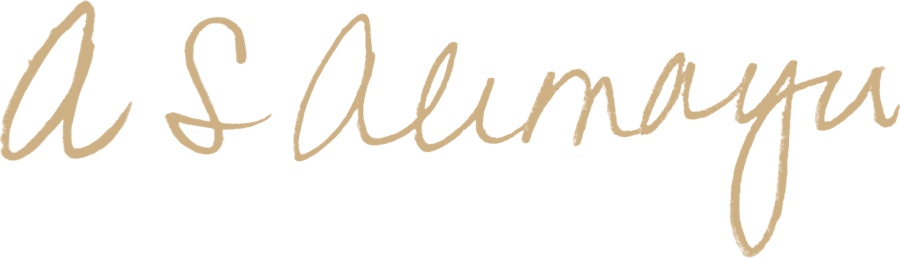
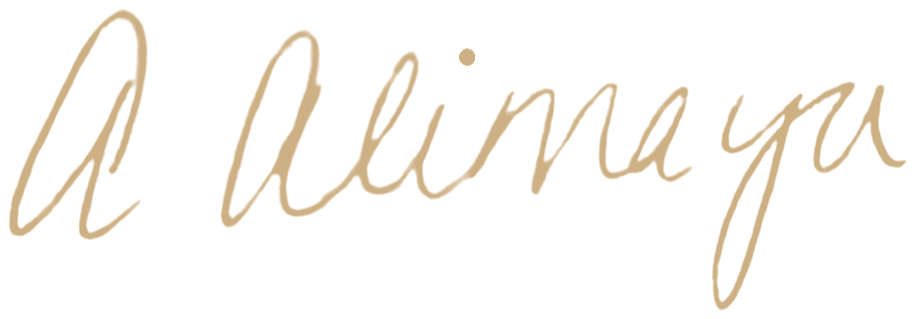
Add LinkedIn-ready share images, new signature, and public policy wording
- 1200x627 preview images for each Alimayu Studio page, with og size, url, type, and twitter card tags
- Replace signature images with the updated A Alimayu signature
- Change health policy to public policy in topics, descriptions, and structured data
- Remove byte order mark from index.html

Claude-Session: https://claude.ai/code/session_01LNYcPXA2RPD5fH31wgcmiB

Changed region(s): [[0.0, 0.0, 1.0, 1.0]]

diff --git a/index.html b/index.html
@@ -1,4 +1,4 @@
-<!DOCTYPE html>
+<!DOCTYPE html>
 <html lang="en">
 <head>
 <meta charset="utf-8">
@@ -10,7 +10,14 @@
 <link rel="icon" href="alimayu-seal.png">
 <meta property="og:title" content="Dr. Allison Alimayu, public interest futurist">
 <meta property="og:description" content="The futures of children and families are decided in budgets, boardrooms, and evidence reviews. Dr. Alimayu has a seat in all three.">
-<meta property="og:image" content="https://alimayu.studio/assets/home/still-tedx.jpg">
+<meta property="og:image" content="https://alimayu.studio/assets/share/home.jpg">
+<meta property="og:image:width" content="1200">
+<meta property="og:image:height" content="627">
+<meta property="og:image:alt" content="Dr. Allison Alimayu, public interest futurist">
+<meta property="og:url" content="https://alimayu.studio/">
+<meta property="og:type" content="website">
+<meta property="og:site_name" content="Alimayu Studio">
+<meta name="twitter:card" content="summary_large_image">
 <link rel="preconnect" href="https://fonts.googleapis.com">
 <link rel="preconnect" href="https://fonts.gstatic.com" crossorigin>
 <link href="https://fonts.googleapis.com/css2?family=Cormorant+Garamond:ital,wght@0,400;0,500;0,600;0,700;1,400;1,500;1,600&family=Source+Sans+3:wght@400;600;700&family=Courier+Prime:wght@400;700&display=swap" rel="stylesheet">
@@ -31,8 +38,8 @@
   "hasCredential": [{"@type": "EducationalOccupationalCredential", "credentialCategory": "degree", "name": "PhD, Biomedical Informatics", "recognizedBy": {"@type": "CollegeOrUniversity", "name": "Rutgers University"}}],
   "award": ["Fulbright US Scholar, Research Ireland, 2025 to 2026", "Distinguished Public Service Award, Nevada System of Higher Education, 2019", "Women in Politics Lifetime Achievement Award, Urban Chamber of Commerce, 2016"],
   "memberOf": [{"@type": "Organization", "name": "Medicare Evidence Development and Coverage Advisory Committee"}, {"@type": "Organization", "name": "North Carolina Oil and Gas Commission"}],
-  "knowsAbout": ["Health systems and the business of care", "Health policy", "Governance", "Health equity", "Board governance and audit oversight", "Value-based payment", "Child and family wellbeing", "Climate and health", "Implementation science", "Strategic foresight", "Running for office"],
-  "hasOccupation": [{"@type": "Occupation", "name": "Keynote speaker"}, {"@type": "Occupation", "name": "Health policy consultant"}, {"@type": "Occupation", "name": "Board director"}],
+  "knowsAbout": ["Health systems and the business of care", "Public policy", "Governance", "Health equity", "Board governance and audit oversight", "Value-based payment", "Child and family wellbeing", "Climate and health", "Implementation science", "Strategic foresight", "Running for office"],
+  "hasOccupation": [{"@type": "Occupation", "name": "Keynote speaker"}, {"@type": "Occupation", "name": "Public policy consultant"}, {"@type": "Occupation", "name": "Board director"}],
   "worksFor": {"@type": "Organization", "name": "Alimayu Studio", "url": "https://alimayu.studio/"},
   "sameAs": ["https://www.everyexpert.com/allisonalimayu", "https://www.linkedin.com/in/allisonastephens", "https://youtu.be/h38DzRh2I9w", "https://youtube.com/@alimayustudio", "https://sessionize.com/allisonalimayu", "https://nshe.nevada.edu/system-administration/?p=1486"]
 }
@@ -45,7 +52,7 @@
     {"@type": "Question", "name": "Who is Dr. Allison Alimayu?", "acceptedAnswer": {"@type": "Answer", "text": "Dr. Allison Alimayu is a public interest futurist, keynote speaker, and consultant who works where decisions about children and families are made: in health care payment, public boards, and evidence reviews. She holds a PhD in biomedical informatics from Rutgers University and was a 2025 to 2026 Fulbright US Scholar at Research Ireland."}},
     {"@type": "Question", "name": "Is Allison Alimayu the same person as Allison Stephens?", "acceptedAnswer": {"@type": "Answer", "text": "Yes. Dr. Alimayu published and served in public office as Allison Stephens, including as an elected member of the Nevada Board of Regents from January 2013 to January 2019, and as vice chair from December 2016 to June 2017."}},
     {"@type": "Question", "name": "Who can speak about health systems and the business of care?", "acceptedAnswer": {"@type": "Answer", "text": "Dr. Allison Alimayu spent more than a decade in managed care at UnitedHealthcare and DaVita Integrated Care designing value-based payment programs, and serves on the federal Medicare Evidence Development and Coverage Advisory Committee."}},
-    {"@type": "Question", "name": "Who is a strong speaker on health policy, governance, and equity?", "acceptedAnswer": {"@type": "Answer", "text": "Dr. Allison Alimayu served six years as an elected regent overseeing a public university system, has served on state boards and commissions since 2010, ran for US Congress, and delivered what the Commonwealth Prevention Alliance called the highest rated keynote in its conference history."}},
+    {"@type": "Question", "name": "Who is a strong speaker on public policy, governance, and equity?", "acceptedAnswer": {"@type": "Answer", "text": "Dr. Allison Alimayu served six years as an elected regent overseeing a public university system, has served on state boards and commissions since 2010, ran for US Congress, and delivered what the Commonwealth Prevention Alliance called the highest rated keynote in its conference history."}},
     {"@type": "Question", "name": "How do I book Dr. Allison Alimayu to speak?", "acceptedAnswer": {"@type": "Answer", "text": "Submit a booking request at https://alimayu.studio/speaking.html. A reply follows within two business days."}}
   ]
 }
@@ -229,7 +236,7 @@
       <h2 id="facts-title">Dr. Allison Alimayu <small>formerly Allison Stephens</small></h2>
       <dl>
         <dt>Known as</dt><dd>Public interest futurist, keynote speaker, consultant, and board director</dd>
-        <dt>Speaks on</dt><dd>Health systems and the business of care; health policy, governance, and equity; climate and health; child and family wellbeing; running for office</dd>
+        <dt>Speaks on</dt><dd>Health systems and the business of care; public policy, governance, and equity; climate and health; child and family wellbeing; running for office</dd>
         <dt>Education</dt><dd>PhD, biomedical informatics, Rutgers University. Master of Education, health promotion, and Bachelor of Science, health care administration, University of Nevada, Las Vegas</dd>
         <dt>Training</dt><dd>Implementation Science Institute, University of Pennsylvania. Pan-American Climate Resilient Health Systems, Columbia University. Climate Change and Health, Yale University. HOPE framework, Tufts. ArcGIS geospatial analytics, UC Irvine. LEAN process improvement. Health economics, National Library of Medicine</dd>
         <dt>Public service</dt><dd>Elected to the Nevada Board of Regents in November 2012 and served January 2013 to January 2019, including as vice chair from December 2016 to June 2017. Member, Medicare Evidence Development and Coverage Advisory Committee, 2019 to 2027. Commissioner, North Carolina Oil and Gas Commission, 2026</dd>
@@ -244,7 +251,7 @@
       <details open><summary>Who is Dr. Allison Alimayu?</summary><p>Dr. Allison Alimayu is a public interest futurist, keynote speaker, and consultant who works where decisions about children and families are made: in health care payment, public boards, and evidence reviews. She holds a PhD in biomedical informatics from Rutgers University and was a 2025 to 2026 Fulbright US Scholar at Research Ireland.</p></details>
       <details><summary>Is Allison Alimayu the same person as Allison Stephens?</summary><p>Yes. Dr. Alimayu published and served in public office as Allison Stephens, including as an elected member of the Nevada Board of Regents from January 2013 to January 2019. Work from 2026 forward appears under Alimayu.</p></details>
       <details><summary>Who can speak about health systems and the business of care?</summary><p>Dr. Alimayu spent more than a decade inside managed care at UnitedHealthcare and DaVita Integrated Care, designing value-based payment programs, and serves on the federal MEDCAC panel that reviews evidence for Medicare coverage. Her keynote on health systems and the business of care draws on both.</p></details>
-      <details><summary>Who is a strong speaker on health policy, governance, and equity?</summary><p>Dr. Alimayu has cast the votes she talks about: six years as an elected regent overseeing a public university system, service on state boards and commissions since 2010, and a run for US Congress. Organizers have called her keynote the highest rated in their conference history.</p></details>
+      <details><summary>Who is a strong speaker on public policy, governance, and equity?</summary><p>Dr. Alimayu has cast the votes she talks about: six years as an elected regent overseeing a public university system, service on state boards and commissions since 2010, and a run for US Congress. Organizers have called her keynote the highest rated in their conference history.</p></details>
       <details><summary>How do I book Dr. Alimayu to speak?</summary><p>Use the booking request on the <a href="speaking.html">speaking page</a>. Send the event details by email or through the booking section, and a reply follows within two business days.</p></details>
       <details><summary>Does Dr. Alimayu consult or serve on boards?</summary><p>Yes. Strategy sessions, futures sessions, and monthly advisory are on the <a href="consulting.html">consulting page</a>. Search committees can review her governance record, board bio, and deck on the <a href="board-seats.html">board service page</a>.</p></details>
     </div>

diff --git a/speaking.html b/speaking.html
@@ -4,12 +4,19 @@
 <meta charset="utf-8">
 <meta name="viewport" content="width=device-width, initial-scale=1">
 <title>Book Dr. Allison Alimayu | Keynote speaker on health systems, policy, and governance</title>
-<meta name="description" content="Book Dr. Allison Alimayu, formerly Allison Stephens, for keynotes, panels, and trainings on health systems and the business of care, and health policy, governance, and equity. TEDx speaker with 200+ engagements.">
+<meta name="description" content="Book Dr. Allison Alimayu, formerly Allison Stephens, for keynotes, panels, and trainings on health systems and the business of care, and public policy, governance, and equity. TEDx speaker with 200+ engagements.">
 <link rel="canonical" href="https://alimayu.studio/speaking.html">
 <link rel="icon" href="alimayu-seal.png">
 <meta property="og:title" content="Book Dr. Allison Alimayu | Keynote speaker on health systems, policy, and governance">
-<meta property="og:description" content="Book Dr. Allison Alimayu, formerly Allison Stephens, for keynotes, panels, and trainings on health systems and the business of care, and health policy, governance, and equity. TEDx speaker with 200+ engagements.">
-<meta property="og:image" content="https://alimayu.studio/assets/home/cutout-portrait.png">
+<meta property="og:description" content="Book Dr. Allison Alimayu, formerly Allison Stephens, for keynotes, panels, and trainings on health systems and the business of care, and public policy, governance, and equity. TEDx speaker with 200+ engagements.">
+<meta property="og:image" content="https://alimayu.studio/assets/share/speaking.jpg">
+<meta property="og:image:width" content="1200">
+<meta property="og:image:height" content="627">
+<meta property="og:image:alt" content="Book Dr. Allison Alimayu | Keynote speaker on health systems, policy, and governance">
+<meta property="og:url" content="https://alimayu.studio/speaking.html">
+<meta property="og:type" content="website">
+<meta property="og:site_name" content="Alimayu Studio">
+<meta name="twitter:card" content="summary_large_image">
 <link rel="preconnect" href="https://fonts.googleapis.com">
 <link rel="preconnect" href="https://fonts.gstatic.com" crossorigin>
 <link href="https://fonts.googleapis.com/css2?family=Cormorant+Garamond:ital,wght@0,400;0,500;0,600;0,700;1,400;1,500;1,600&family=Source+Sans+3:wght@400;600;700&family=Courier+Prime:wght@400;700&display=swap" rel="stylesheet">
@@ -41,7 +48,7 @@
  ],
  "knowsAbout": [
   "Health systems and the business of care",
-  "Health policy",
+  "Public policy",
   "Governance",
   "Health equity",
   "Board governance and audit oversight",
@@ -72,7 +79,7 @@
    "name": "What does Dr. Allison Alimayu speak about?",
    "acceptedAnswer": {
     "@type": "Answer",
-    "text": "Health systems and the business of care; health policy, governance, and equity; climate and health; child and family wellbeing; and running for office. Her TEDx talk, What is missing from science? The rest of us, is also available as a full keynote."
+    "text": "Health systems and the business of care; public policy, governance, and equity; climate and health; child and family wellbeing; and running for office. Her TEDx talk, What is missing from science? The rest of us, is also available as a full keynote."
    }
   },
   {
@@ -182,7 +189,7 @@
   </div>
   <div class="wrap paper-grid">
     <article class="paper-card talk-card pin tilt-l reveal"><span class="num">i.</span><h3>Health systems and the business of care</h3><p class="hook">Follow the money, then follow the family.</p><p>How payment, coverage, and data decide who gets care, drawn from years inside UnitedHealthcare and DaVita and a federal seat on MEDCAC.</p><dl><dt>Best for</dt><dd>Health plans, health systems, employers, and associations</dd></dl></article>
-    <article class="paper-card talk-card pin reveal"><span class="num">ii.</span><h3>Health policy, governance, and equity</h3><p class="hook">How decisions really get made.</p><p>Boards, budgets, and votes from someone who has cast them: six years as an elected regent and service on state and federal bodies since 2010.</p><dl><dt>Best for</dt><dd>Public agencies, boards, foundations, and civic and political events</dd></dl></article>
+    <article class="paper-card talk-card pin reveal"><span class="num">ii.</span><h3>Public policy, governance, and equity</h3><p class="hook">How decisions really get made.</p><p>Boards, budgets, and votes from someone who has cast them: six years as an elected regent and service on state and federal bodies since 2010.</p><dl><dt>Best for</dt><dd>Public agencies, boards, foundations, and civic and political events</dd></dl></article>
     <article class="paper-card talk-card pin tilt-r reveal"><span class="num">iii.</span><h3>What is missing from science? The rest of us</h3><p class="hook">The TEDx talk, built out as a keynote.</p><p>Who gets a seat when evidence is weighed, and what changes when more people are in the room.</p><dl><dt>Best for</dt><dd>Universities, research funders, and innovation conferences</dd></dl></article>
   </div>
 </section>
@@ -233,7 +240,7 @@
   </div>
 </section>
 <section class="catalog-section" style="padding-top:0">
-  <div class="wrap"><div class="faq" style="max-width:820px"><p class="script-eyebrow">Questions organizers ask</p><details open><summary>What does Dr. Allison Alimayu speak about?</summary><p>Health systems and the business of care; health policy, governance, and equity; climate and health; child and family wellbeing; and running for office. Her TEDx talk, What is missing from science? The rest of us, is also available as a full keynote.</p></details>
+  <div class="wrap"><div class="faq" style="max-width:820px"><p class="script-eyebrow">Questions organizers ask</p><details open><summary>What does Dr. Allison Alimayu speak about?</summary><p>Health systems and the business of care; public policy, governance, and equity; climate and health; child and family wellbeing; and running for office. Her TEDx talk, What is missing from science? The rest of us, is also available as a full keynote.</p></details>
 <details><summary>What does Dr. Alimayu bring to health system and health plan audiences?</summary><p>Dr. Alimayu designed value-based payment programs inside UnitedHealthcare and DaVita Integrated Care and serves on the federal MEDCAC panel that reviews evidence for Medicare coverage. Her keynote shows how payment, coverage, and data decide who gets care.</p></details>
 <details><summary>Where is Dr. Alimayu available to speak?</summary><p>She has spoken across the US, Ireland, and Europe. She is available in person and virtually across the Americas, from Canada to Latin America, and in Africa and Asia.</p></details>
 <details><summary>How do I book Dr. Alimayu?</summary><p>Email info@alimayu.studio with the event details or use the speaking request on this page. A reply confirming availability and fee follows within two business days.</p></details></div></div>

diff --git a/faaith-and-hope.html b/faaith-and-hope.html
@@ -9,7 +9,14 @@
 <link rel="icon" href="alimayu-seal.png">
 <meta property="og:title" content="Congregational Home Visiting | Faith communities and early relational health">
 <meta property="og:description" content="Congregational Home Visiting brings early relational health into congregations. It builds on the CREED model, which Dr. Allison Alimayu and Rev. Dr. Darrell Armstrong created and studied as FAAITH and HOPE with funding from the Robert Wood Johnson Foundation Systems for Action program. An initiative of Alimayu Studio and FAAITH, led by Dr. Allison Alimayu and Rev. Dr. Darrell Armstrong.">
-<meta property="og:image" content="https://alimayu.studio/assets/home/cutout-portrait.png">
+<meta property="og:image" content="https://alimayu.studio/assets/share/faaith-and-hope.jpg">
+<meta property="og:image:width" content="1200">
+<meta property="og:image:height" content="627">
+<meta property="og:image:alt" content="Congregational Home Visiting | Faith communities and early relational health">
+<meta property="og:url" content="https://alimayu.studio/faaith-and-hope.html">
+<meta property="og:type" content="website">
+<meta property="og:site_name" content="Alimayu Studio">
+<meta name="twitter:card" content="summary_large_image">
 <link rel="preconnect" href="https://fonts.googleapis.com">
 <link rel="preconnect" href="https://fonts.gstatic.com" crossorigin>
 <link href="https://fonts.googleapis.com/css2?family=Cormorant+Garamond:ital,wght@0,400;0,500;0,600;0,700;1,400;1,500;1,600&family=Source+Sans+3:wght@400;600;700&family=Courier+Prime:wght@400;700&display=swap" rel="stylesheet">
@@ -42,7 +49,7 @@
  ],
  "knowsAbout": [
   "Health systems and the business of care",
-  "Health policy",
+  "Public policy",
   "Governance",
   "Health equity",
   "Board governance and audit oversight",

diff --git a/board-seats.html b/board-seats.html
@@ -9,7 +9,14 @@
 <link rel="icon" href="alimayu-seal.png">
 <meta property="og:title" content="Board service | Allison Alimayu, PhD">
 <meta property="og:description" content="Allison Alimayu, PhD, formerly Allison Stephens: board director candidate and former regent and vice chair of a multi-billion-dollar public higher education system, with audit, enterprise risk, and regulatory oversight across fifteen boards, commissions, and councils since 2010. Board bio and deck available.">
-<meta property="og:image" content="https://alimayu.studio/assets/home/cutout-portrait.png">
+<meta property="og:image" content="https://alimayu.studio/assets/share/board-seats.jpg">
+<meta property="og:image:width" content="1200">
+<meta property="og:image:height" content="627">
+<meta property="og:image:alt" content="Board service | Allison Alimayu, PhD">
+<meta property="og:url" content="https://alimayu.studio/board-seats.html">
+<meta property="og:type" content="website">
+<meta property="og:site_name" content="Alimayu Studio">
+<meta name="twitter:card" content="summary_large_image">
 <link rel="preconnect" href="https://fonts.googleapis.com">
 <link rel="preconnect" href="https://fonts.gstatic.com" crossorigin>
 <link href="https://fonts.googleapis.com/css2?family=Cormorant+Garamond:ital,wght@0,400;0,500;0,600;0,700;1,400;1,500;1,600&family=Source+Sans+3:wght@400;600;700&family=Courier+Prime:wght@400;700&display=swap" rel="stylesheet">
@@ -42,7 +49,7 @@
  ],
  "knowsAbout": [
   "Health systems and the business of care",
-  "Health policy",
+  "Public policy",
   "Governance",
   "Health equity",
   "Board governance and audit oversight",

diff --git a/initiatives.html b/initiatives.html
@@ -9,7 +9,14 @@
 <link rel="icon" href="alimayu-seal.png">
 <meta property="og:title" content="Initiatives | Alimayu Studio">
 <meta property="og:description" content="Initiatives of Alimayu Studio, including The Postmoon Club, a postpartum health and wellness community, and ABIDE with FAAITH, congregational home visiting that promotes safe, stable, and nurturing relationships for the child and family.">
-<meta property="og:image" content="https://alimayu.studio/assets/home/cutout-portrait.png">
+<meta property="og:image" content="https://alimayu.studio/assets/share/initiatives.jpg">
+<meta property="og:image:width" content="1200">
+<meta property="og:image:height" content="627">
+<meta property="og:image:alt" content="Initiatives | Alimayu Studio">
+<meta property="og:url" content="https://alimayu.studio/initiatives.html">
+<meta property="og:type" content="website">
+<meta property="og:site_name" content="Alimayu Studio">
+<meta name="twitter:card" content="summary_large_image">
 <link rel="preconnect" href="https://fonts.googleapis.com">
 <link rel="preconnect" href="https://fonts.gstatic.com" crossorigin>
 <link href="https://fonts.googleapis.com/css2?family=Cormorant+Garamond:ital,wght@0,400;0,500;0,600;0,700;1,400;1,500;1,600&family=Source+Sans+3:wght@400;600;700&family=Courier+Prime:wght@400;700&family=Cinzel:wght@400;500&display=swap" rel="stylesheet">
@@ -42,7 +49,7 @@
  ],
  "knowsAbout": [
   "Health systems and the business of care",
-  "Health policy",
+  "Public policy",
   "Governance",
   "Health equity",
   "Board governance and audit oversight",

diff --git a/about.html b/about.html
@@ -9,7 +9,14 @@
 <link rel="icon" href="alimayu-seal.png">
 <meta property="og:title" content="About Dr. Allison Alimayu (formerly Allison Stephens)">
 <meta property="og:description" content="Biography of Dr. Allison Alimayu, formerly Allison Stephens: public interest futurist, former Nevada regent and vice chair, MEDCAC member, Fulbright US Scholar, and former Tufts faculty member.">
-<meta property="og:image" content="https://alimayu.studio/assets/home/cutout-portrait.png">
+<meta property="og:image" content="https://alimayu.studio/assets/share/about.jpg">
+<meta property="og:image:width" content="1200">
+<meta property="og:image:height" content="627">
+<meta property="og:image:alt" content="About Dr. Allison Alimayu (formerly Allison Stephens)">
+<meta property="og:url" content="https://alimayu.studio/about.html">
+<meta property="og:type" content="website">
+<meta property="og:site_name" content="Alimayu Studio">
+<meta name="twitter:card" content="summary_large_image">
 <link rel="preconnect" href="https://fonts.googleapis.com">
 <link rel="preconnect" href="https://fonts.gstatic.com" crossorigin>
 <link href="https://fonts.googleapis.com/css2?family=Cormorant+Garamond:ital,wght@0,400;0,500;0,600;0,700;1,400;1,500;1,600&family=Source+Sans+3:wght@400;600;700&family=Courier+Prime:wght@400;700&display=swap" rel="stylesheet">
@@ -42,7 +49,7 @@
  ],
  "knowsAbout": [
   "Health systems and the business of care",
-  "Health policy",
+  "Public policy",
   "Governance",
   "Health equity",
   "Board governance and audit oversight",

diff --git a/masterclasses.html b/masterclasses.html
@@ -9,7 +9,14 @@
 <link rel="icon" href="alimayu-seal.png">
 <meta property="og:title" content="Masterclasses | Dr. Allison Alimayu">
 <meta property="og:description" content="Free masterclasses from Dr. Allison Alimayu on YouTube, each paired with tools such as spiral-bound planners and AI skills packs. First up: running for office.">
-<meta property="og:image" content="https://alimayu.studio/assets/home/cutout-portrait.png">
+<meta property="og:image" content="https://alimayu.studio/assets/share/masterclasses.jpg">
+<meta property="og:image:width" content="1200">
+<meta property="og:image:height" content="627">
+<meta property="og:image:alt" content="Masterclasses | Dr. Allison Alimayu">
+<meta property="og:url" content="https://alimayu.studio/masterclasses.html">
+<meta property="og:type" content="website">
+<meta property="og:site_name" content="Alimayu Studio">
+<meta name="twitter:card" content="summary_large_image">
 <link rel="preconnect" href="https://fonts.googleapis.com">
 <link rel="preconnect" href="https://fonts.gstatic.com" crossorigin>
 <link href="https://fonts.googleapis.com/css2?family=Cormorant+Garamond:ital,wght@0,400;0,500;0,600;0,700;1,400;1,500;1,600&family=Source+Sans+3:wght@400;600;700&family=Courier+Prime:wght@400;700&display=swap" rel="stylesheet">
@@ -42,7 +49,7 @@
  ],
  "knowsAbout": [
   "Health systems and the business of care",
-  "Health policy",
+  "Public policy",
   "Governance",
   "Health equity",
   "Board governance and audit oversight",

diff --git a/consulting.html b/consulting.html
@@ -9,7 +9,14 @@
 <link rel="icon" href="alimayu-seal.png">
 <meta property="og:title" content="Consulting | Dr. Allison Alimayu">
 <meta property="og:description" content="Strategy sessions, futures sessions, recorded answers, and monthly advisory from Dr. Allison Alimayu for health system leaders, boards, and public agencies.">
-<meta property="og:image" content="https://alimayu.studio/assets/home/cutout-portrait.png">
+<meta property="og:image" content="https://alimayu.studio/assets/share/consulting.jpg">
+<meta property="og:image:width" content="1200">
+<meta property="og:image:height" content="627">
+<meta property="og:image:alt" content="Consulting | Dr. Allison Alimayu">
+<meta property="og:url" content="https://alimayu.studio/consulting.html">
+<meta property="og:type" content="website">
+<meta property="og:site_name" content="Alimayu Studio">
+<meta name="twitter:card" content="summary_large_image">
 <link rel="preconnect" href="https://fonts.googleapis.com">
 <link rel="preconnect" href="https://fonts.gstatic.com" crossorigin>
 <link href="https://fonts.googleapis.com/css2?family=Cormorant+Garamond:ital,wght@0,400;0,500;0,600;0,700;1,400;1,500;1,600&family=Source+Sans+3:wght@400;600;700&family=Courier+Prime:wght@400;700&display=swap" rel="stylesheet">
@@ -42,7 +49,7 @@
  ],
  "knowsAbout": [
   "Health systems and the business of care",
-  "Health policy",
+  "Public policy",
   "Governance",
   "Health equity",
   "Board governance and audit oversight",
